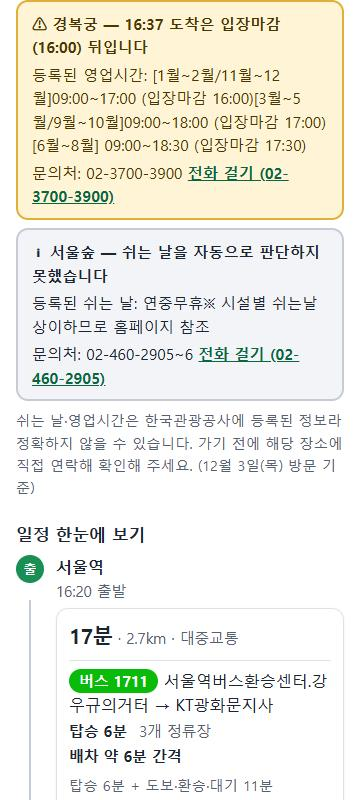
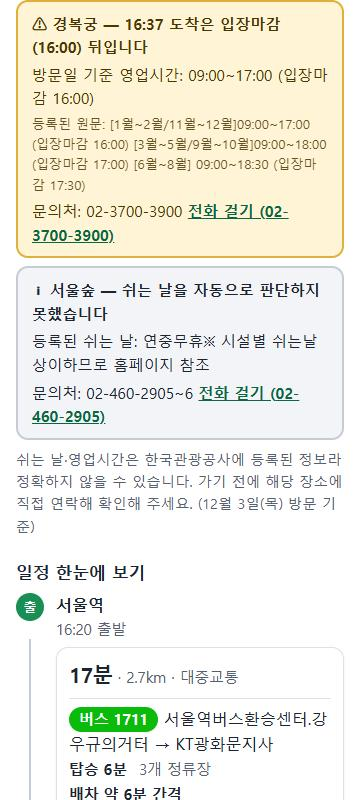
영업시간 카드 수정 후 실제 데이터·360px 캡처로 교체, 검증 기록과 작업 기록 갱신

Changed region(s): [[0.0306, 0.0625, 0.9778, 1.0]]

diff --git a/README.md b/README.md
@@ -111,13 +111,13 @@ Vercel 서버 함수 (Node.js): /api/search · /api/detail · /api/matrix · /ap
 | 자동차로 바꿔 검사 | 구간별 거리와 소요시간이 표시된다 | 자동차로 검사하니 구간 2개에 소요시간(40분, 31분)과 거리(11.2km, 16.6km), 카카오맵 길찾기 링크가 표시되고 “가능합니다 — 11:11에 도착, 총 이동 1시간 11분”이 나왔다. 대중교통의 노선 칩은 나오지 않았다 | 통과. 자동차 결과에도 대중교통 전용 설명(배차 간격 안내)과 같은 거리가 두 번 표시되는 것이 보여 자동차에서는 숨기도록 수정함 | [10-자동차.png](docs/evidence/10-자동차.png) |
 | 장소별 “가기 전 확인할 것” | 쉬는 날·영업시간·주차·예약·문의처 중 등록된 항목이 표시되고, 없는 항목은 “정보 없음”과 지도·검색 확인 링크가 나온다 | 경복궁의 쉬는 날(매주 화요일), 이용 시간, 주차, 문의처 등이 표시됨. 정보가 없는 예약 항목은 “정보 없음”으로 표시. 카카오맵과 네이버로 이동되는 링크가 나옴. | 통과 | [11-확인정보.png](docs/evidence/11-확인정보.png) |
 | 날짜를 1년 뒤로 설정(대중교통) | 날짜 범위 안내가 나오고 날짜 칸으로 초점이 간다 | 대중교통에서 2027-10-17로 검사하니 “대중교통 이동시간은 오늘 기준 약 6일 전부터 99일 뒤까지의 날짜만 조회할 수 있습니다. 날짜를 바꿔 주세요.” 안내가 떴고, 날짜 칸에 초점(주황 테두리)이 갔다. 자동차에서는 날짜를 쓰지 않아 같은 날짜도 정상 처리됐다 | 통과. 자동차에서 날짜가 반영되지 않는다는 설명이 없어서 이동수단별 안내 문구를 추가함 | [12-날짜범위.png](docs/evidence/12-날짜범위.png) |
-| 휴대전화 폭 360px(새 화면 기준 재확인) | 가로 스크롤 없이 모두 보이고 글자가 읽힌다 | 배포 사이트에서 폭 360×높이 800(휴대전화 모드)으로 열어 확인했다. 화면 폭 360에 문서 폭도 360이라 가로 스크롤이 없었고 폭을 넘는 요소도 없었다. 지도가 위, 입력이 아래로 쌓였고 이동수단 탭, 날짜·시각 칸이 폭 안에 들어왔다. 결과에서는 경고 카드·확인 필요 카드와 “전화 걸기” 링크가 줄바꿈되어 모두 읽혔다 | 통과. 다만 영업시간 카드에 등록된 원문(달별 구간 3개)이 띄어쓰기 없이 이어져 읽기 어려웠다. “방문일 기준 영업시간”을 먼저 보여 주고 원문은 작게 덧붙이도록 고침 | [14-모바일360.png](docs/evidence/14-모바일360.png), [14b-모바일360-결과.png](docs/evidence/14b-모바일360-결과.png) |
+| 휴대전화 폭 360px(새 화면 기준 재확인) | 가로 스크롤 없이 모두 보이고 글자가 읽힌다 | 배포 사이트에서 폭 360×높이 800(휴대전화 모드)으로 열어 확인했다. 화면 폭 360에 문서 폭도 360이라 가로 스크롤이 없었고 폭을 넘는 요소도 없었다. 지도가 위, 입력이 아래로 쌓였고 이동수단 탭, 날짜·시각 칸이 폭 안에 들어왔다. 결과에서는 경고 카드·확인 필요 카드와 “전화 걸기” 링크가 줄바꿈되어 모두 읽혔다 | 통과. 처음에는 영업시간 카드에 등록된 원문(달별 구간 3개)이 띄어쓰기 없이 이어져 읽기 어려웠다. “방문일 기준 영업시간”을 먼저 보여 주고 원문은 작게, 구간 사이를 띄어 쓰도록 고친 뒤 같은 화면(360px)을 다시 찍어 확인했다(`14b`는 수정 후 캡처, 가로 스크롤 없음) | [14-모바일360.png](docs/evidence/14-모바일360.png), [14b-모바일360-결과.png](docs/evidence/14b-모바일360-결과.png) |
 | 키보드만으로 조작(Tab, Enter, 위·아래 버튼) — 새 화면 기준 재확인 | 초점이 보이고 순서 변경까지 가능하다 | 배포 사이트에서 경복궁 체류시간 칸에서 Tab을 누르자 “경복궁 아래로 이동” 버튼으로 초점이 갔고 주황색 3px 테두리가 보였다. Enter로 경복궁이 1번에서 2번으로 내려갔고 “경복궁을(를) 2번째로 옮겼습니다.” 안내가 나왔다. 초점은 사라지지 않고 같은 항목의 “위로 이동” 버튼에 남아 계속 조작할 수 있었다(맨 아래가 되어 아래 버튼은 비활성으로 바뀜) | 통과. 시작 칸에 초점을 두는 것은 스크립트로 했고, 이후 Tab·Enter는 실제 키 입력으로 했다 | [15-키보드.png](docs/evidence/15-키보드.png) |
 | 경계 ①: 출발지 서울역에 경유지로도 서울역을 추가(출발지와 같은 장소), 대중교통 | 검사 전에 입력 안내가 나온다(이유와 할 일 포함) | **수정 전:** 입력 검사를 통과해 서버까지 갔다가 “문제가 생겼습니다 — 서울역에서 서울역까지 가는 경로를 찾지 못했습니다. 섬이거나 대중교통이 닿지 않는 곳일 수 있습니다…”라는 엉뚱한 안내가 나왔다. **수정 후:** “입력을 확인해 주세요 (1건) — 1번째 장소가 출발지와 같은 장소입니다. 출발지가 아닌 다른 곳을 경유지로 추가해 주세요.”가 뜨고 경유지 칸에 빨간 테두리가 생겼다 | 처음에는 실패. 입력 검사(`validatePlan`)에 “출발지·도착지와 같은 장소” 검사를 추가해 고침. 수정 후 통과(캡처는 옛 이름·옛 지도 시절 화면) | [E1-같은장소-수정전.png](docs/evidence/E1-같은장소-수정전.png), [E1-같은장소-수정후.png](docs/evidence/E1-같은장소-수정후.png) |
 | 경계 ②: 서울역 22:00 출발, 경복궁 체류 5시간(300분), 종료 시각 23:59 — 자정을 넘기는 일정 | 자정 넘긴 시각이 이상한 숫자가 아니라 “다음 날 …”로 읽기 쉽게 표시된다 | **수정 전:** “도착 예정 27:56”, “22:17 도착 · 27:17 출발”, “27:56 도착”처럼 24시를 넘는 숫자로 표시됐다. **수정 후:** “도착 예정 다음 날 03:56”, “22:17 도착 · 다음 날 03:17 출발”, “다음 날 03:56 도착”으로 표시됐고 “불가능합니다 — 종료 시각 23:59을(를) 3시간 57분 넘깁니다”는 그대로였다 | 처음에는 실패. 시각 표시 함수(`formatTime`)를 고쳐 통과(캡처는 옛 이름·옛 지도 시절 화면) | [E2-자정표시-수정전.png](docs/evidence/E2-자정표시-수정전.png), [E2-자정표시-수정후.png](docs/evidence/E2-자정표시-수정후.png) |
 | 경계 ③: 허용되는 끝값과 거부되는 바로 다음 값의 쌍 — 체류시간 0·1·720·721분, 경유지 0·1·6·7곳, 시작·종료 시각 같음, 날짜 범위(−6일·+99일 안팎), 검색어 30·31자, 좌표 2·8·9개 | 끝값은 통과하고 바로 다음 값은 안내와 함께 거부된다 | 단위 테스트 `tests/boundary.test.js`와 브라우저(가짜 데이터)에서 모두 의도대로였다. 이 점검에서 위 ①②와 “검색칸 글자 수 제한이 없음”(서버 한도 30자와 같은 `maxlength=30` 추가) 세 가지 문제를 발견해 고침 | 통과(고친 뒤). 화면 캡처 없이 테스트로 확인한 항목이 있음 | [tests/boundary.test.js](tests/boundary.test.js) |
 | 쉬는 날 경고: 배포 사이트(wishroute-rho.vercel.app)에서 실제 한국관광공사 데이터로 서울역 → 경복궁(매주 화요일 휴무) → 서울숲(“연중무휴 ※ 시설별 쉬는날 상이…”) → 강남역 2호선, 대중교통, 방문 날짜를 화요일(2026-12-01)로 설정 | 화요일에 쉬는 곳만 경고가 나오고, 판단하지 못한 곳은 “확인 필요”로 원문이 나온다. 직접 연락해 확인하라는 안내와 문의처가 함께 나온다. 가능/불가능 판정은 그대로다 | 경복궁에 노란 경고 카드 “12월 1일(화)은 쉬는 날일 수 있습니다”(등록된 원문 “매주 화요일 ※ 단, 정기휴일이 공휴일 및 대체공휴일과 겹칠 경우…”와 “공휴일과 겹치면 쉬는 날이 달라질 수 있습니다”)와 일정 옆 “쉬는 날일 수 있음” 표시가 떴고, 문의처 02-3700-3900과 “전화 걸기” 링크가 있었다. 서울숲은 회색 “쉬는 날을 자동으로 판단하지 못했습니다” 카드에 원문과 문의처(02-460-2905~6) 링크가 나왔다. 아래에 “정확하지 않을 수 있습니다. 가기 전에 해당 장소에 직접 연락해 확인해 주세요. (12월 1일(화) 방문 기준)” 안내가 있었고 판정은 “가능합니다”였다. 같은 일정을 목요일(2026-12-03)로 바꾸고 새로고침하면 경복궁 경고와 일정 옆 표시가 사라지고 서울숲 카드와 안내(12월 3일(목) 방문 기준)만 남았다(경복궁 확인 목록 문구 “등록된 정보로는 방문일 12월 3일(목)이 쉬는 날이 아닙니다. 공휴일에는 달라질 수 있습니다.”는 화면 글자로 확인) | 통과. 처음에는 가짜 데이터 모드에서만 확인했고, 배포 뒤 실제 데이터로 다시 확인해 캡처를 교체함. 쉬는 날 글자 판독은 조회한 실제 문자열 34건을 단위 테스트에 넣어 확인함 | [18-쉬는날경고.png](docs/evidence/18-쉬는날경고.png), [18b-쉬는날경고해제.png](docs/evidence/18b-쉬는날경고해제.png) |
-| 영업시간 경고: 배포 사이트에서 실제 한국관광공사 데이터로 서울역 → 경복궁 → 서울숲 → 강남역 2호선, 대중교통, 방문일 목요일(2026-12-03), 16:20 출발 | 12월 경복궁은 입장마감이 16:00이라 그 뒤 도착이면 경고가 나오고, 몇 시에 도착하는지와 문의처가 함께 보인다. 판단하지 못한 곳은 카드 없이 확인 목록에만 안내가 나온다. 가능/불가능 판정은 그대로다 | 경복궁에 노란 카드 “16:37 도착은 입장마감(16:00) 뒤입니다”와 등록된 영업시간 원문, 문의처 02-3700-3900과 “전화 걸기” 링크가 떴고 일정의 경복궁 옆에 “영업시간 확인” 표시가 붙었다. 서울숲은 이용시간(“상시 개방※ 시설별 이용시간 상이…”)을 판단하지 못해 카드는 없고 확인 목록에 “영업시간을 자동으로 판단하지 못했습니다”만 나왔다. 아래에 “쉬는 날·영업시간은 … 직접 연락해 확인해 주세요” 안내가 있었고 판정은 “가능합니다”였다. 같은 날 09:00 출발로 바꾸고 새로고침하면 경고와 표시가 사라지고 확인 목록에 “등록된 영업시간(09:00~17:00, 입장마감 16:00) 안에 도착합니다.”가 나왔다 | 통과. 다만 등록된 영업시간 원문이 달별 구간 전체라 길고 구간 사이에 띄어쓰기가 없어 읽기 어렵다(개선 후보). 같은 일정을 화요일(12-01)로 열면 경복궁이 쉬는 날이라 영업시간 카드는 뜨지 않고 쉬는 날 카드만 뜬다(설계대로, 확인 목록에는 둘 다 나옴). 실제 이용시간 37건 중 29건을 판단하고 8건은 확인 필요로 나오는 것은 단위 테스트로 확인함 | [19-영업시간경고.png](docs/evidence/19-영업시간경고.png), [19b-영업시간정상.png](docs/evidence/19b-영업시간정상.png) |
+| 영업시간 경고: 배포 사이트에서 실제 한국관광공사 데이터로 서울역 → 경복궁 → 서울숲 → 강남역 2호선, 대중교통, 방문일 목요일(2026-12-03), 16:20 출발 | 12월 경복궁은 입장마감이 16:00이라 그 뒤 도착이면 경고가 나오고, 몇 시에 도착하는지와 문의처가 함께 보인다. 판단하지 못한 곳은 카드 없이 확인 목록에만 안내가 나온다. 가능/불가능 판정은 그대로다 | 경복궁에 노란 카드 “16:37 도착은 입장마감(16:00) 뒤입니다”와 “방문일 기준 영업시간: 09:00~17:00 (입장마감 16:00)”, 그 아래 작은 글씨로 등록된 원문, 문의처 02-3700-3900과 “전화 걸기” 링크가 떴고 일정의 경복궁 옆에 “영업시간 확인” 표시가 붙었다. 서울숲은 이용시간(“상시 개방※ 시설별 이용시간 상이…”)을 판단하지 못해 카드는 없고 확인 목록에 “영업시간을 자동으로 판단하지 못했습니다”만 나왔다. 아래에 “쉬는 날·영업시간은 … 직접 연락해 확인해 주세요” 안내가 있었고 판정은 “가능합니다”였다. 같은 날 09:00 출발로 바꾸고 새로고침하면 경고와 표시가 사라지고 확인 목록에 “등록된 영업시간(09:00~17:00, 입장마감 16:00) 안에 도착합니다.”가 나왔다 | 통과. 처음에는 카드에 등록된 원문(달별 구간 3개)이 구간 사이 띄어쓰기 없이 통째로 이어져 읽기 어려웠다(360px 캡처를 보다가 발견). 방문일에 해당하는 구간을 먼저 보여 주고 원문은 작게, 구간 사이를 띄어 쓰도록 고친 뒤 배포 사이트에서 다시 확인했고 캡처는 수정 후 화면이다. 같은 일정을 화요일(12-01)로 열면 경복궁이 쉬는 날이라 영업시간 카드는 뜨지 않고 쉬는 날 카드만 뜬다(설계대로, 확인 목록에는 둘 다 나옴). 실제 이용시간 37건 중 29건을 판단하고 8건은 확인 필요로 나오는 것은 단위 테스트로 확인함 | [19-영업시간경고.png](docs/evidence/19-영업시간경고.png), [19b-영업시간정상.png](docs/evidence/19b-영업시간정상.png) |
 | 실패 상황 ①: 페이지를 연 뒤 서버 연결을 끊고 출발지 “서울역” 검색 | 실패 이유와 할 일이 안내되고, 다시 시도할 수 있다 | 빨간 안내 상자에 “문제가 생겼습니다 — 서버에 연결하지 못했습니다. 인터넷 연결을 확인한 뒤 다시 시도해 주세요.”가 뜨고 “다시 시도” 버튼이 있었다. 화면은 깨지지 않았고 입력한 글자도 그대로였다 | 통과. 연결 끊김은 내 컴퓨터에서 서버를 꺼서 재현했다(공유기·와이파이를 끈 것은 아님) | [16-서버연결실패.png](docs/evidence/16-서버연결실패.png) |
 | 실패 상황 ②: 배경 지도 서버에 접속할 수 없음(지도 주소를 접속 불가 주소로 바꿔 시험) | 지도가 안 떠도 일정 검사와 핀·선은 쓸 수 있고, 지도 문제라는 안내가 나온다 | 일정 검사는 정상이었고 출발·도착 핀도 떴다. 그러나 지도는 빈 흰 화면이고 경로선이 없었으며 안내도 없었다. 고친 뒤에는 지도 아래에 “배경 지도를 불러오지 못해 빈 배경으로 보여 드립니다…” 안내가 한 번 뜨고, 회색 빈 배경 위에 핀과 점선이 그려졌다 | 처음에는 실패. 경로선이 지도 로딩 완료에만 묶여 있고 안내가 없어서 고침. 정상일 때는 안내 없이 이전과 같음을 확인함 | [17-지도서버실패-수정전.png](docs/evidence/17-지도서버실패-수정전.png), [17-지도서버실패-수정후.png](docs/evidence/17-지도서버실패-수정후.png) |
 

diff --git a/docs/verification.md b/docs/verification.md
@@ -15,12 +15,12 @@
 | 자동차로 바꿔 검사 | 구간별 거리와 소요시간이 표시된다 | 자동차로 검사하니 구간 2개에 소요시간(40분, 31분)과 거리(11.2km, 16.6km), 카카오맵 길찾기 링크가 표시되고 "가능합니다 — 11:11에 도착, 총 이동 1시간 11분"이 나왔다. 대중교통의 노선 칩은 나오지 않았다 | 통과. 자동차 결과에도 대중교통 전용 설명(배차 간격 안내)과 같은 거리가 두 번 표시되는 것이 보여 자동차에서는 숨기도록 수정함 | docs/evidence/10-자동차.png |
 | 장소별 "가기 전 확인할 것" | 쉬는 날·영업시간·주차·예약·문의처 중 등록된 항목이 표시되고, 없는 항목은 "정보 없음"과 지도·검색 확인 링크가 나온다 | 경복궁의 쉬는 날(매주 화요일), 이용 시간,주차,문의처 등이 표시됨. 정보가 없는 예약 항목은 "정보 없음"으로 표시. 카카오맵과 네이버로 이동되는 링크가 나옴. | 통과 | docs/evidence/11-확인정보.png |
 | 날짜를 1년 뒤로 설정(대중교통) | 날짜 범위 안내가 나오고 날짜 칸으로 초점이 간다 | 대중교통에서 2027-10-17로 검사하니 "대중교통 이동시간은 오늘 기준 약 6일 전부터 99일 뒤까지의 날짜만 조회할 수 있습니다. 날짜를 바꿔 주세요." 안내가 떴고, 날짜 칸에 초점(주황 테두리)이 갔다. 자동차에서는 날짜를 쓰지 않아 같은 날짜도 정상 처리됐다 | 통과. 자동차에서 날짜가 반영되지 않는다는 설명이 없어서 이동수단별 안내 문구를 추가함 | docs/evidence/12-날짜범위.png |
-| 휴대전화 폭 360px(새 화면 기준 재확인) | 가로 스크롤 없이 모두 보이고 글자가 읽힌다 | 배포 사이트에서 폭 360×높이 800(휴대전화 모드)으로 열어 확인했다. 화면 폭 360에 문서 폭도 360이라 가로 스크롤이 없었고 폭을 넘는 요소도 없었다. 지도가 위, 입력이 아래로 쌓였고 이동수단 탭, 날짜·시각 칸이 폭 안에 들어왔다. 결과에서는 경고 카드·확인 필요 카드와 "전화 걸기" 링크가 줄바꿈되어 모두 읽혔다 | 통과. 다만 영업시간 카드에 등록된 원문(달별 구간 3개)이 띄어쓰기 없이 이어져 읽기 어려웠다. "방문일 기준 영업시간"을 먼저 보여 주고 원문은 작게 덧붙이도록 고침 | docs/evidence/14-모바일360.png, docs/evidence/14b-모바일360-결과.png |
+| 휴대전화 폭 360px(새 화면 기준 재확인) | 가로 스크롤 없이 모두 보이고 글자가 읽힌다 | 배포 사이트에서 폭 360×높이 800(휴대전화 모드)으로 열어 확인했다. 화면 폭 360에 문서 폭도 360이라 가로 스크롤이 없었고 폭을 넘는 요소도 없었다. 지도가 위, 입력이 아래로 쌓였고 이동수단 탭, 날짜·시각 칸이 폭 안에 들어왔다. 결과에서는 경고 카드·확인 필요 카드와 "전화 걸기" 링크가 줄바꿈되어 모두 읽혔다 | 통과. 처음에는 영업시간 카드에 등록된 원문(달별 구간 3개)이 띄어쓰기 없이 이어져 읽기 어려웠다. "방문일 기준 영업시간"을 먼저 보여 주고 원문은 작게, 구간 사이를 띄어 쓰도록 고친 뒤 같은 화면(360px)을 다시 찍어 확인했다(`14b`는 수정 후 캡처, 가로 스크롤 없음) | docs/evidence/14-모바일360.png, docs/evidence/14b-모바일360-결과.png |
 | 키보드만으로 조작(Tab, Enter, 위·아래 버튼) — 새 화면 기준 재확인 | 초점이 보이고 순서 변경까지 가능하다 | 배포 사이트에서 경복궁 체류시간 칸에서 Tab을 누르자 "경복궁 아래로 이동" 버튼으로 초점이 갔고 주황색 3px 테두리가 보였다. Enter로 경복궁이 1번에서 2번으로 내려갔고 "경복궁을(를) 2번째로 옮겼습니다." 안내가 나왔다. 초점은 사라지지 않고 같은 항목의 "위로 이동" 버튼에 남아 계속 조작할 수 있었다(맨 아래가 되어 아래 버튼은 비활성으로 바뀜) | 통과. 시작 칸에 초점을 두는 것은 스크립트로 했고, 이후 Tab·Enter는 실제 키 입력으로 했다 | docs/evidence/15-키보드.png |
 | 경계 ①: 출발지 서울역에 경유지로도 서울역을 추가(출발지와 같은 장소), 대중교통 | 검사 전에 입력 안내가 나온다(이유와 할 일 포함) | **수정 전:** 입력 검사를 통과해 서버까지 갔다가 "문제가 생겼습니다 — 서울역에서 서울역까지 가는 경로를 찾지 못했습니다. 섬이거나 대중교통이 닿지 않는 곳일 수 있습니다…"라는 엉뚱한 안내가 나왔다. **수정 후:** "입력을 확인해 주세요 (1건) — 1번째 장소가 출발지와 같은 장소입니다. 출발지가 아닌 다른 곳을 경유지로 추가해 주세요."가 뜨고 경유지 칸에 빨간 테두리가 생겼다 | 처음에는 실패. 입력 검사(`validatePlan`)에 "출발지·도착지와 같은 장소" 검사를 추가해 고침. 수정 후 통과(캡처는 옛 이름·옛 지도 시절 화면) | docs/evidence/E1-같은장소-수정전.png, docs/evidence/E1-같은장소-수정후.png |
 | 경계 ②: 서울역 22:00 출발, 경복궁 체류 5시간(300분), 종료 시각 23:59 — 자정을 넘기는 일정 | 자정 넘긴 시각이 이상한 숫자가 아니라 "다음 날 …"로 읽기 쉽게 표시된다 | **수정 전:** "도착 예정 27:56", "22:17 도착 · 27:17 출발", "27:56 도착"처럼 24시를 넘는 숫자로 표시됐다. **수정 후:** "도착 예정 다음 날 03:56", "22:17 도착 · 다음 날 03:17 출발", "다음 날 03:56 도착"으로 표시됐고 "불가능합니다 — 종료 시각 23:59을(를) 3시간 57분 넘깁니다"는 그대로였다 | 처음에는 실패. 시각 표시 함수(`formatTime`)를 고쳐 통과(캡처는 옛 이름·옛 지도 시절 화면) | docs/evidence/E2-자정표시-수정전.png, docs/evidence/E2-자정표시-수정후.png |
 | 경계 ③: 허용되는 끝값과 거부되는 바로 다음 값의 쌍 — 체류시간 0·1·720·721분, 경유지 0·1·6·7곳, 시작·종료 시각 같음, 날짜 범위(−6일·+99일 안팎), 검색어 30·31자, 좌표 2·8·9개 | 끝값은 통과하고 바로 다음 값은 안내와 함께 거부된다 | 단위 테스트 `tests/boundary.test.js`와 브라우저(가짜 데이터)에서 모두 의도대로였다. 이 점검에서 위 ①②와 "검색칸 글자 수 제한이 없음"(서버 한도 30자와 같은 `maxlength=30` 추가) 세 가지 문제를 발견해 고침 | 통과(고친 뒤). 화면 캡처 없이 테스트로 확인한 항목이 있음 | tests/boundary.test.js |
 | 쉬는 날 경고: 배포 사이트(wishroute-rho.vercel.app)에서 실제 한국관광공사 데이터로 서울역 → 경복궁(매주 화요일 휴무) → 서울숲("연중무휴 ※ 시설별 쉬는날 상이…") → 강남역 2호선, 대중교통, 방문 날짜를 화요일(2026-12-01)로 설정 | 화요일에 쉬는 곳만 경고가 나오고, 판단하지 못한 곳은 "확인 필요"로 원문이 나온다. 직접 연락해 확인하라는 안내와 문의처가 함께 나온다. 가능/불가능 판정은 그대로다 | 경복궁에 노란 경고 카드 "12월 1일(화)은 쉬는 날일 수 있습니다"(등록된 원문 "매주 화요일 ※ 단, 정기휴일이 공휴일 및 대체공휴일과 겹칠 경우…"와 "공휴일과 겹치면 쉬는 날이 달라질 수 있습니다")와 일정 옆 "쉬는 날일 수 있음" 표시가 떴고, 문의처 02-3700-3900과 "전화 걸기" 링크가 있었다. 서울숲은 회색 "쉬는 날을 자동으로 판단하지 못했습니다" 카드에 원문과 문의처(02-460-2905~6) 링크가 나왔다. 아래에 "정확하지 않을 수 있습니다. 가기 전에 해당 장소에 직접 연락해 확인해 주세요. (12월 1일(화) 방문 기준)" 안내가 있었고 판정은 "가능합니다"였다. 같은 일정을 목요일(2026-12-03)로 바꾸고 새로고침하면 경복궁 경고와 일정 옆 표시가 사라지고 서울숲 카드와 안내(12월 3일(목) 방문 기준)만 남았다(경복궁 확인 목록 문구 "등록된 정보로는 방문일 12월 3일(목)이 쉬는 날이 아닙니다. 공휴일에는 달라질 수 있습니다."는 화면 글자로 확인) | 통과. 처음에는 가짜 데이터 모드에서만 확인했고, 배포 뒤 실제 데이터로 다시 확인해 캡처를 교체함. 쉬는 날 글자 판독은 조회한 실제 문자열 34건을 단위 테스트에 넣어 확인함 | docs/evidence/18-쉬는날경고.png, docs/evidence/18b-쉬는날경고해제.png |
-| 영업시간 경고: 배포 사이트에서 실제 한국관광공사 데이터로 서울역 → 경복궁 → 서울숲 → 강남역 2호선, 대중교통, 방문일 목요일(2026-12-03), 16:20 출발 | 12월 경복궁은 입장마감이 16:00이라 그 뒤 도착이면 경고가 나오고, 몇 시에 도착하는지와 문의처가 함께 보인다. 판단하지 못한 곳은 카드 없이 확인 목록에만 안내가 나온다. 가능/불가능 판정은 그대로다 | 경복궁에 노란 카드 "16:37 도착은 입장마감(16:00) 뒤입니다"와 등록된 영업시간 원문, 문의처 02-3700-3900과 "전화 걸기" 링크가 떴고 일정의 경복궁 옆에 "영업시간 확인" 표시가 붙었다. 서울숲은 이용시간("상시 개방※ 시설별 이용시간 상이…")을 판단하지 못해 카드는 없고 확인 목록에 "영업시간을 자동으로 판단하지 못했습니다"만 나왔다. 아래에 "쉬는 날·영업시간은 … 직접 연락해 확인해 주세요" 안내가 있었고 판정은 "가능합니다"였다. 같은 날 09:00 출발로 바꾸고 새로고침하면 경고와 표시가 사라지고 확인 목록에 "등록된 영업시간(09:00~17:00, 입장마감 16:00) 안에 도착합니다."가 나왔다 | 통과. 다만 등록된 영업시간 원문이 달별 구간 전체라 길고 구간 사이에 띄어쓰기가 없어 읽기 어렵다(개선 후보). 같은 일정을 화요일(12-01)로 열면 경복궁이 쉬는 날이라 영업시간 카드는 뜨지 않고 쉬는 날 카드만 뜬다(설계대로, 확인 목록에는 둘 다 나옴). 실제 이용시간 37건 중 29건을 판단하고 8건은 확인 필요로 나오는 것은 단위 테스트로 확인함 | docs/evidence/19-영업시간경고.png, docs/evidence/19b-영업시간정상.png |
+| 영업시간 경고: 배포 사이트에서 실제 한국관광공사 데이터로 서울역 → 경복궁 → 서울숲 → 강남역 2호선, 대중교통, 방문일 목요일(2026-12-03), 16:20 출발 | 12월 경복궁은 입장마감이 16:00이라 그 뒤 도착이면 경고가 나오고, 몇 시에 도착하는지와 문의처가 함께 보인다. 판단하지 못한 곳은 카드 없이 확인 목록에만 안내가 나온다. 가능/불가능 판정은 그대로다 | 경복궁에 노란 카드 "16:37 도착은 입장마감(16:00) 뒤입니다"와 "방문일 기준 영업시간: 09:00~17:00 (입장마감 16:00)", 그 아래 작은 글씨로 등록된 원문, 문의처 02-3700-3900과 "전화 걸기" 링크가 떴고 일정의 경복궁 옆에 "영업시간 확인" 표시가 붙었다. 서울숲은 이용시간("상시 개방※ 시설별 이용시간 상이…")을 판단하지 못해 카드는 없고 확인 목록에 "영업시간을 자동으로 판단하지 못했습니다"만 나왔다. 아래에 "쉬는 날·영업시간은 … 직접 연락해 확인해 주세요" 안내가 있었고 판정은 "가능합니다"였다. 같은 날 09:00 출발로 바꾸고 새로고침하면 경고와 표시가 사라지고 확인 목록에 "등록된 영업시간(09:00~17:00, 입장마감 16:00) 안에 도착합니다."가 나왔다 | 통과. 처음에는 카드에 등록된 원문(달별 구간 3개)이 구간 사이 띄어쓰기 없이 통째로 이어져 읽기 어려웠다(360px 캡처를 보다가 발견). 방문일에 해당하는 구간을 먼저 보여 주고 원문은 작게, 구간 사이를 띄어 쓰도록 고친 뒤 배포 사이트에서 다시 확인했고 캡처는 수정 후 화면이다. 같은 일정을 화요일(12-01)로 열면 경복궁이 쉬는 날이라 영업시간 카드는 뜨지 않고 쉬는 날 카드만 뜬다(설계대로, 확인 목록에는 둘 다 나옴). 실제 이용시간 37건 중 29건을 판단하고 8건은 확인 필요로 나오는 것은 단위 테스트로 확인함 | docs/evidence/19-영업시간경고.png, docs/evidence/19b-영업시간정상.png |
 | 실패 상황 ①: 페이지를 연 뒤 서버 연결을 끊고 출발지 "서울역" 검색 | 실패 이유와 할 일이 안내되고, 다시 시도할 수 있다 | 빨간 안내 상자에 "문제가 생겼습니다 — 서버에 연결하지 못했습니다. 인터넷 연결을 확인한 뒤 다시 시도해 주세요."가 뜨고 "다시 시도" 버튼이 있었다. 화면은 깨지지 않았고 입력한 글자도 그대로였다 | 통과. 연결 끊김은 내 컴퓨터에서 서버를 꺼서 재현했다(공유기·와이파이를 끈 것은 아님) | docs/evidence/16-서버연결실패.png |
 | 실패 상황 ②: 배경 지도 서버에 접속할 수 없음(지도 주소를 접속 불가 주소로 바꿔 시험) | 지도가 안 떠도 일정 검사와 핀·선은 쓸 수 있고, 지도 문제라는 안내가 나온다 | 일정 검사는 정상이었고 출발·도착 핀도 떴다. 그러나 지도는 빈 흰 화면이고 경로선이 없었으며 안내도 없었다. 고친 뒤에는 지도 아래에 "배경 지도를 불러오지 못해 빈 배경으로 보여 드립니다…" 안내가 한 번 뜨고, 회색 빈 배경 위에 핀과 점선이 그려졌다 | 처음에는 실패. 경로선이 지도 로딩 완료에만 묶여 있고 안내가 없어서 고침. 정상일 때는 안내 없이 이전과 같음을 확인함 | docs/evidence/17-지도서버실패-수정전.png, docs/evidence/17-지도서버실패-수정후.png |

diff --git a/CLAUDE.md b/CLAUDE.md
@@ -37,9 +37,9 @@
 
 - (2026-11-24) 영업시간 경고 구현(설계: `docs/design-opening-hours.md`): `js/core/openingHours.js`. 도착·출발 시각이 등록된 이용시간(입장마감·마지막 주문 포함)과 안 맞으면 경고 카드·일정 옆 "영업시간 확인". 이용시간 37건 중 29건 판단. 쉬는 날 경고 때 생긴 "null" 글자 버그도 수정. 테스트 118개 통과. push·배포 완료, 배포 사이트에서 실제 데이터로 확인(목요일 16:20 출발 → 경복궁 입장마감 경고, 09:00 출발 → 경고 없음). 검증 표에 줄·캡처(19, 19b) 추가.
 
-- (2026-11-24) 평가 기준(PDF) 대조 후 제출 전 보완: README에 흐름·완료 기준, 기술 구성, 사용자 피드백 표(빈 칸), 회고(초안) 추가, 경계 검증 `E1`·`E2` 연결, 360px·키보드 재검증과 캡처 교체, 영업시간 카드를 "방문일 기준 영업시간 + 작은 원문"으로 수정, Google Routes 약관 20.2 확인 결과를 한계에 기록. 개인 홈페이지(`umggae.github.io`) 카드·회고 갱신(별도 저장소). **커밋·push 전.**
+- (2026-11-24) 평가 기준(PDF) 대조 후 제출 전 보완: README에 흐름·완료 기준, 기술 구성, 사용자 피드백 표(빈 칸), 회고(초안) 추가, 경계 검증 `E1`·`E2` 연결, 360px·키보드 재검증과 캡처 교체, 영업시간 카드를 "방문일 기준 영업시간 + 작은 원문"으로 수정, Google Routes 약관 20.2 확인 결과를 한계에 기록. push·배포 완료, 수정한 영업시간 카드를 실제 데이터로 확인하고 캡처 `19`·`14b`를 수정 후 화면으로 교체함. 개인 홈페이지(`umggae.github.io`) 카드·회고 갱신은 별도 저장소라 **그쪽은 커밋·push 전.**
 
-- (2026-11-24) 구글 Routes 결과 캐시 끄기: 대중교통 이동시간(`matrix`)·구간 상세(`leg`)의 서버 메모리 캐시 제거, CDN 캐시(`Cache-Control`)도 대중교통·구간 상세는 `no-store`(자동차만 30분). `makeHandler`가 캐시 초를 함수로도 받음. `tests/cachePolicy.test.js` 5개 추가(복사본에서 캐시를 다시 켜면 실패함을 확인), 총 123개 통과. 대중교통 검사마다 구글을 새로 부르므로 속도·비용이 조금 나빠질 수 있음. **커밋·push 전**(배포 후 대중교통 검사가 정상인지 확인 필요).
+- (2026-11-24) 구글 Routes 결과 캐시 끄기: 대중교통 이동시간(`matrix`)·구간 상세(`leg`)의 서버 메모리 캐시 제거, CDN 캐시(`Cache-Control`)도 대중교통·구간 상세는 `no-store`(자동차만 30분). `makeHandler`가 캐시 초를 함수로도 받음. `tests/cachePolicy.test.js` 5개 추가(복사본에서 캐시를 다시 켜면 실패함을 확인), 총 123개 통과. 대중교통 검사마다 구글을 새로 부르므로 속도·비용이 조금 나빠질 수 있음. push·배포 완료, 배포 서버에서 확인: 대중교통 이동시간·구간 상세는 `no-store`이고 같은 요청을 두 번 보내도 매번 구글을 부름(2회째도 0.5~1.1초), 자동차는 캐시 유지(2회째 18ms), 검색·장소 상세 캐시 그대로, 대중교통 검사 결과 정상.
 
 ## 제출 일정 (평가 기준 PDF)
 - 발표자료 PDF 12/1(화) 23:59까지(첫 장에 공개 URL), 발표 12/2(수) 4번째(발표 7분 + 질의 3분), 최종 제출 12/9(수) 11:59(공개 URL·GitHub URL·홈페이지 URL, 시크릿 창에서 열리는지 확인).
@@ -48,7 +48,6 @@
 ## 다음에 할 일
 - **사용자 피드백 3명 이상**(README "사용자 피드백과 반영" 표의 빈 칸): 직접 받아서 받은 말 그대로 적고, 고친 근거를 붙이기. 지어내지 않기.
 - README·홈페이지의 **회고 초안을 본인 말로 고쳐 쓰기**(HTML 주석 "초안" 지우기).
-- push·배포 후 영업시간 카드(방문일 기준 + 작은 원문)를 실제 데이터로 확인하고 캡처 `19`(와 `14b`)를 새 화면으로 교체, 검증 표의 "원문이 길다" 문구 정리.
 - Google Routes 약관 20.2(비구글 지도와 함께 사용 금지): **결정함 — 한계로 공개하고 지도(OpenFreeMap)는 유지**. 지도를 구글 지도로 바꾸는 것은 이후 과제(README 한계 참고). 발표에서 "약관을 확인해 보니 이런 제한이 있어 한계로 공개했다"고 설명할 것. 카카오 로컬 API 결과의 표시·저장 범위는 공식 정책 원문 미확인(README 한계에 적음).
 - 발표 준비: 7분 시연 순서(입력 → 검사 → 순서 제안 → 공유 → 쉬는 날·영업시간 경고 → 실패 안내), 예상 질문 답.
 - 맥북에서는 `git remote set-url origin https://github.com/umggae/wishroute.git` 한 번 실행.

diff --git a/docs/ai-log.md b/docs/ai-log.md
@@ -174,3 +174,6 @@
 - 테스트: `tests/cachePolicy.test.js` 5개(헤더 숫자/함수/오류, 모드별 초, 가짜 fetch로 같은 요청을 두 번 보내면 구글이 두 번 불리는지). 복사본에서 캐시를 다시 켜 보니 마지막 테스트가 실패해 테스트가 캐시를 잡아냄을 확인. 총 123개 통과.
 - 영향: 대중교통 검사마다 구글을 새로 부르므로 속도·비용이 조금 나빠질 수 있음. README 한계에 기록. 배포 후 실제 검사가 정상인지는 아직 확인하지 못함.
 - 카카오 쪽: 공식 정책 원문은 확인하지 못했고 카카오 개발자 포럼 답변이 엇갈림(타사 지도 표시는 실시간이면 괜찮다는 답과 저장 금지 답). README 한계에 "확인하지 못함"으로 기록.
+## 배포 후 확인: 캐시 끄기와 영업시간 카드 (2026-11-24)
+- push 후 약 30초 만에 배포. 배포 서버 확인: 대중교통 `matrix`·`leg`는 `Cache-Control: no-store`이고 같은 요청을 두 번 보내도 두 번째 응답이 0.5~1.1초(구글을 다시 부름). 자동차 `matrix`는 캐시 헤더가 유지되고 두 번째 응답이 18ms. 검색·장소 상세도 캐시 그대로. 응답 내용은 정상(서울역→강남역 대중교통 35분 15.5km, 자동차 28분 11.3km, 4호선 탑승 정보).
+- 수정한 영업시간 카드를 실제 데이터(목요일 16:20 출발, 경복궁 16:37 도착)로 확인: "방문일 기준 영업시간: 09:00~17:00 (입장마감 16:00)" 아래에 원문이 작게, 구간 사이에 띄어쓰기. 데스크톱과 360px(가로 스크롤 없음)에서 모두 읽힘. 캡처 `19`, `14b`를 수정 후 화면으로 교체하고 검증 표의 "원문이 길다" 문구를 "고친 뒤 확인함"으로 정리.
